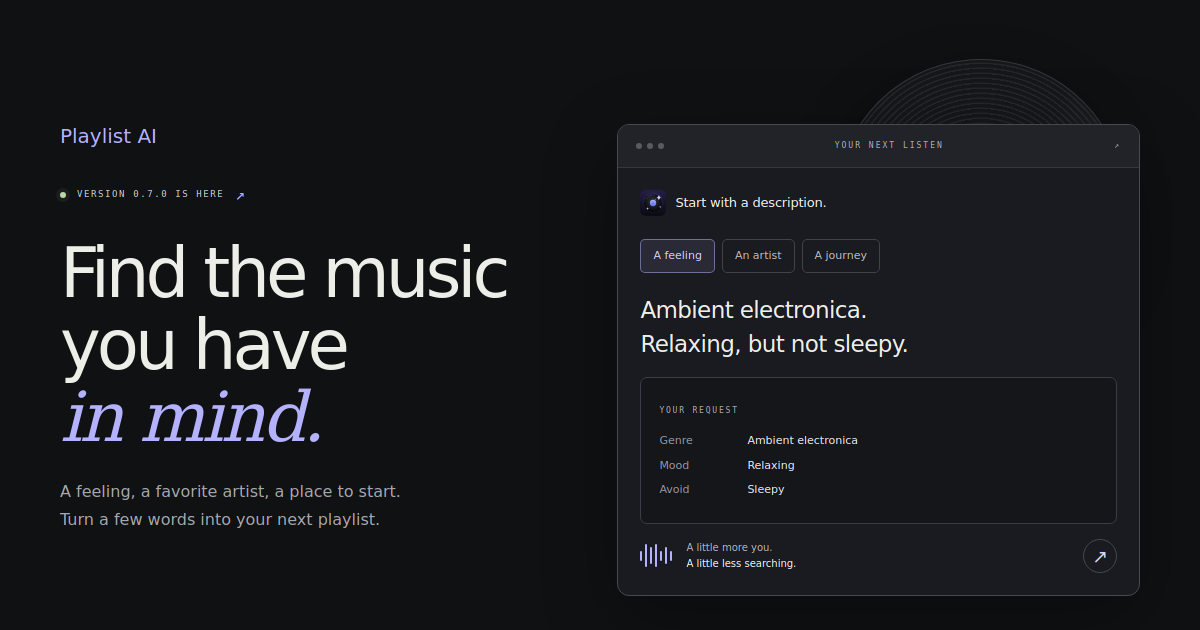
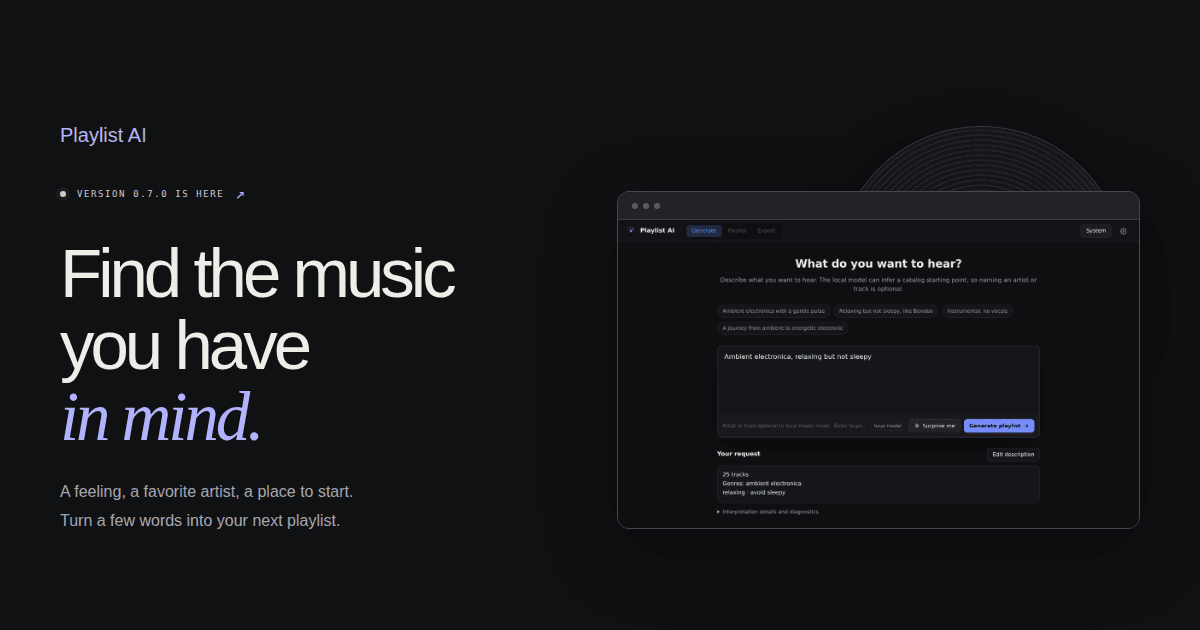
Replace the hero mockup with a real screenshot of the desktop app (#21)

diff --git a/site/styles.css b/site/styles.css
@@ -52,30 +52,10 @@ em { font-family: Georgia, "Times New Roman", serif; font-weight: 400; letter-sp
 .record-label i { width: 8px; height: 8px; background: var(--bg); border-radius: 50%; margin: 8px; }
 .record-label small { font-size: 5px; letter-spacing: .5px; }
 .studio-window { position: relative; border: 1px solid #48494e; border-radius: 12px; background: #1a1b20; box-shadow: 0 22px 75px #0005; overflow: hidden; }
-.window-bar { display: flex; align-items: center; justify-content: space-between; gap: 12px; height: 43px; padding: 0 18px; border-bottom: 1px solid #36373c; color: #aeafb8; font-family: var(--mono); font-size: 8px; letter-spacing: 2px; background: #222329; }
+.window-bar { display: flex; align-items: center; height: 28px; padding: 0 14px; border-bottom: 1px solid #36373c; background: #222329; }
 .window-dots { display: flex; gap: 5px; }
 .window-dots i { width: 6px; height: 6px; background: #595a64; border-radius: 50%; }
-.studio-body { padding: 26px; }
-.studio-heading { display: flex; align-items: center; gap: 9px; font-size: 13px; letter-spacing: -.2px; }
-.example-buttons { display: flex; gap: 7px; margin: 23px 0 20px; }
-.example-buttons button { border: 1px solid #414248; background: transparent; color: #babbc5; font-size: 11px; padding: 7px 12px; border-radius: 5px; }
-.example-buttons button:hover { border-color: var(--accent); }
-.example-buttons button[aria-pressed=true] { background: #b4b2ff19; border-color: #b4b2ff80; color: #d0cfff; }
-.example-description { font-size: clamp(18px, 2vw, 25px); line-height: 1.5; letter-spacing: -.6px; margin: 0; min-height: 82px; }
-.request-summary { border: 1px solid #3b3c45; background: #15161a; border-radius: 7px; margin-top: 16px; padding: 17px 18px; }
-.small-label { font-family: var(--mono); font-size: 8px; letter-spacing: 1.8px; color: #aaabb5; }
-.request-summary dl { margin: 12px 0 0; font-size: 11px; }
-.request-summary dl div { display: grid; grid-template-columns: 70px 1fr; gap: 18px; margin: 7px 0; }
-.request-summary dt { color: #9697a2; }
-.request-summary dd { margin: 0; color: #e6e5ef; }
-.studio-footer { display: flex; align-items: center; gap: 14px; margin-top: 22px; font-size: 10px; color: #b3b4bf; line-height: 1.6; }
-.studio-footer strong { font-weight: 400; color: #ededf4; }
-.wave { display: flex; align-items: center; gap: 3px; height: 25px; color: var(--accent); }
-.wave i { height: 10px; width: 2px; background: currentColor; border-radius: 2px; }
-.wave i:nth-child(2n) { height: 23px; }
-.wave i:nth-child(3n) { height: 17px; }
-.round-link { display: grid; place-items: center; margin-left: auto; border: 1px solid #484950; border-radius: 50%; width: 34px; height: 34px; color: #d5d4fa; font-size: 19px; }
-.round-link:hover { background: #b4b2ff20; }
+.studio-screenshot { width: 100%; height: auto; }
 .demo-caption { font-family: var(--mono); font-size: 8px; color: #a0a1aa; text-align: right; margin: 14px 0 0; letter-spacing: .3px; }
 .assurance { border-top: 1px solid var(--line); border-bottom: 1px solid var(--line); padding-block: 24px; display: flex; justify-content: space-between; align-items: center; gap: 20px; font-size: 11px; color: #b7b8bf; }
 .assurance > span { font-family: Georgia, serif; font-size: 19px; font-style: italic; color: var(--text); }
@@ -187,7 +167,7 @@ h3 { font-size: 20px; line-height: 1.3; font-weight: 500; letter-spacing: -.5px;
   .nav { gap: 24px; } .nav nav { gap: 18px; }
   .hero { gap: 30px; } h1 { letter-spacing: -3.5px; }
   .hero-actions { gap: 18px; } .hero-actions .button { font-size: 12px; padding: 16px; }
-  .text-link { font-size: 12px; } .studio-body { padding: 22px; }
+  .text-link { font-size: 12px; }
   .release-grid, .privacy-section, .questions { gap: 48px; }
   .analysis-copy { padding: 35px; } .platform { padding: 22px; }
   .platform .button { font-size: 11px; } .assurance { font-size: 10px; gap: 16px; }
@@ -203,7 +183,7 @@ h3 { font-size: 20px; line-height: 1.3; font-weight: 500; letter-spacing: -.5px;
   .lead { font-size: 15px; }
   .studio { width: 100%; max-width: 580px; margin: 0 auto; padding-top: 70px; }
   .record { width: 285px; top: -15px; right: 20px; } .studio-window { margin-top: 35px; }
-  .studio-body { padding: 28px; } .example-description { font-size: 25px; } .demo-caption { text-align: center; }
+  .demo-caption { text-align: center; }
   .assurance { flex-wrap: wrap; justify-content: flex-start; gap: 16px 25px; padding-block: 24px; }
   .assurance > span { width: 100%; font-size: 18px; }
   .section { padding-block: 75px; } h2 { font-size: 40px; }
@@ -233,9 +213,6 @@ h3 { font-size: 20px; line-height: 1.3; font-weight: 500; letter-spacing: -.5px;
   .release-link { font-size: 8px; letter-spacing: 1.2px; } .lead { font-size: 14px; }
   .hero-actions { gap: 20px; flex-wrap: wrap; } .hero-note { font-size: 10px; }
   .studio { padding-top: 53px; } .record { width: 230px; right: 10px; top: 0; }
-  .studio-body { padding: 20px; } .example-description { font-size: 23px; min-height: 105px; }
-  .example-buttons { gap: 6px; } .example-buttons button { padding: 8px 10px; }
-  .request-summary { padding: 14px; } .request-summary dl div { grid-template-columns: 54px 1fr; gap: 10px; font-size: 10px; }
   .demo-caption { font-size: 7px; letter-spacing: 0; }
   .assurance { gap: 12px 22px; font-size: 10px; } .assurance p:before { margin-right: 7px; }
   .section { padding-block: 60px; } .eyebrow { font-size: 8px; letter-spacing: 1.6px; margin-bottom: 20px; }

diff --git a/site/index.html b/site/index.html
@@ -37,18 +37,10 @@
       <div class="studio">
         <div class="record" aria-hidden="true"><div class="record-label"><span>PLAYLIST<br />AI</span><i></i><small>SIDE A / 0.7</small></div></div>
         <div class="studio-window">
-          <div class="window-bar"><span class="window-dots" aria-hidden="true"><i></i><i></i><i></i></span><span>YOUR NEXT LISTEN</span><span aria-hidden="true">↗</span></div>
-          <div class="studio-body">
-            <div class="studio-heading"><img src="favicon.svg" alt="" width="26" height="26" /><span>Start with a description.</span></div>
-            <div class="example-buttons" role="group" aria-label="Explore example descriptions"><button type="button" data-example="ambient" aria-pressed="true">A feeling</button><button type="button" data-example="artist" aria-pressed="false">An artist</button><button type="button" data-example="journey" aria-pressed="false">A journey</button></div>
-            <div class="description-preview" aria-live="polite" aria-atomic="true">
-              <p class="example-description" id="example-description">Ambient electronica.<br />Relaxing, but not sleepy.</p>
-              <div class="request-summary"><span class="small-label">YOUR REQUEST</span><dl id="example-summary"><div><dt>Genre</dt><dd>Ambient electronica</dd></div><div><dt>Mood</dt><dd>Relaxing</dd></div><div><dt>Avoid</dt><dd>Sleepy</dd></div></dl></div>
-            </div>
-            <div class="studio-footer"><span class="wave" aria-hidden="true"><i></i><i></i><i></i><i></i><i></i><i></i><i></i></span><span>A little more you.<br /><strong>A little less searching.</strong></span><a href="#download" class="round-link" aria-label="Download the app to create a playlist">↗</a></div>
-          </div>
+          <div class="window-bar" aria-hidden="true"><span class="window-dots"><i></i><i></i><i></i></span></div>
+          <img class="studio-screenshot" src="app-screenshot.png" width="1220" height="721" alt="The Playlist AI desktop app's Generate screen, with the description “Ambient electronica, relaxing but not sleepy” and its parsed request: 25 tracks, genre ambient electronica, relaxing, avoid sleepy." loading="eager" />
         </div>
-        <p class="demo-caption">Interactive illustration · generate playlists in the desktop app</p>
+        <p class="demo-caption">Screenshot of the desktop app · Generate screen</p>
       </div>
     </section>
     <div class="assurance wrap"><span>Made for curious ears.</span><p>Local language understanding</p><p>Your taste stays private</p><p>No account required</p></div>

diff --git a/site/site.js b/site/site.js
@@ -1,27 +1,3 @@
-// Request illustrations only: this page does not run a model or generate tracks.
-const examples = {
-  ambient: { lines: ["Ambient electronica.", "Relaxing, but not sleepy."], fields: [["Genre", "Ambient electronica"], ["Mood", "Relaxing"], ["Avoid", "Sleepy"]] },
-  artist: { lines: ["ODESZA.", "Build me something with songs like that."], fields: [["Reference", "ODESZA · artist"], ["Direction", "Similar tracks"], ["Intent", "Discover something new"]] },
-  journey: { lines: ["20th-century classical.", "End with Miles Davis."], fields: [["Start", "Classical · 20th century"], ["Destination", "Miles Davis · artist"], ["Shape", "A musical journey"]] },
-};
-for (const button of document.querySelectorAll("[data-example]")) {
-  button.addEventListener("click", () => {
-    const example = examples[button.dataset.example];
-    const description = document.getElementById("example-description");
-    description.replaceChildren(document.createTextNode(example.lines[0]), document.createElement("br"), document.createTextNode(example.lines[1]));
-    const summary = document.getElementById("example-summary");
-    summary.replaceChildren(...example.fields.map(([label, value]) => {
-      const row = document.createElement("div");
-      const term = document.createElement("dt");
-      const detail = document.createElement("dd");
-      term.textContent = label;
-      detail.textContent = value;
-      row.append(term, detail);
-      return row;
-    }));
-    document.querySelectorAll("[data-example]").forEach(item => item.setAttribute("aria-pressed", String(item === button)));
-  });
-}
 const toggle = document.querySelector(".menu-toggle");
 const navigation = document.getElementById("navigation");
 function closeMenu() {
